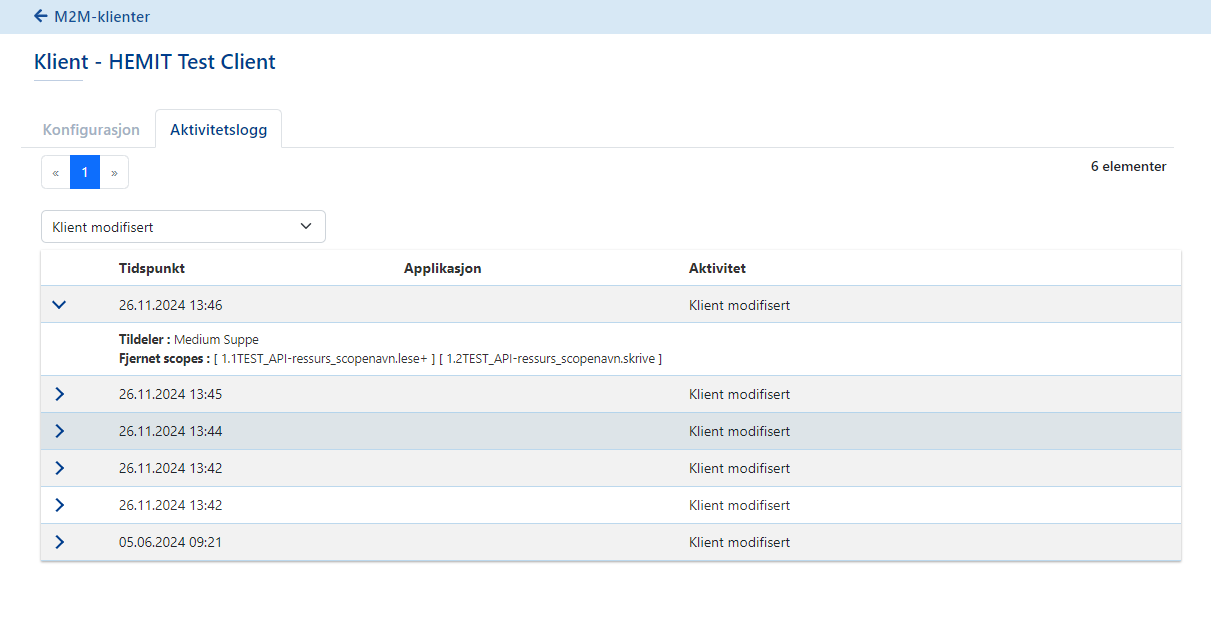
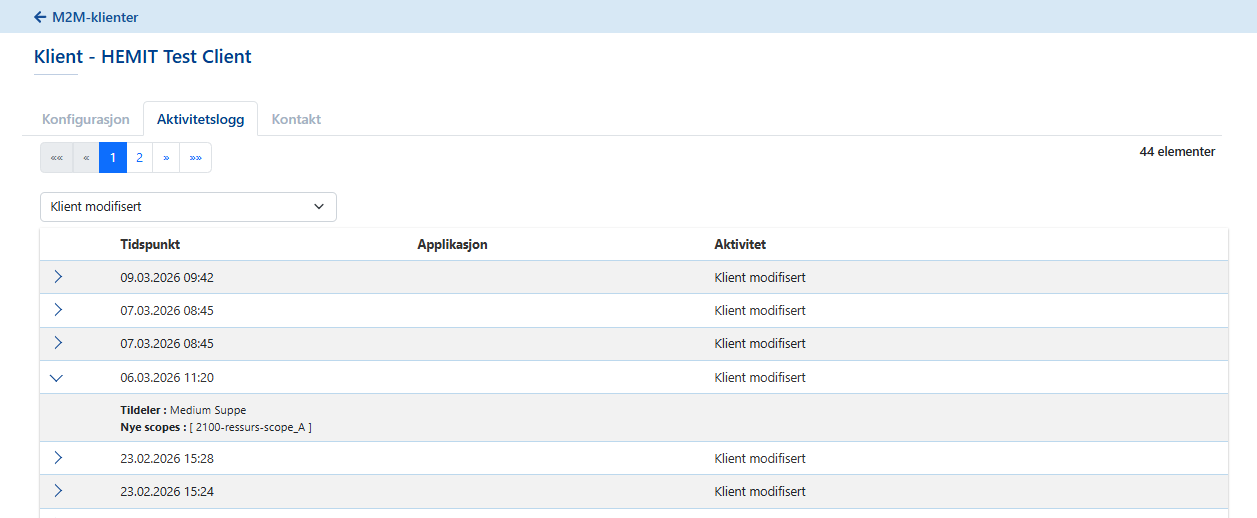
Oppdatert dokumentasjon M2M-klienter.

diff --git a/Brukerdokumentasjon-m2m.md b/Brukerdokumentasjon-m2m.md
@@ -36,29 +36,38 @@ Det er bare Falk Administrator som kan sette opp og aktivere Maskin til Maskin-k
 ## <a name='M2M-klienter'></a>M2M-klienter
 Falk Admininistrator har et menyvalg i fanen Administrere for å se og administrere maskin til maskin-klienter: M2M-klienter. 
 
-Når du velger M2M-klienter vil du få en oversikt som viser M2M-klientene i Falk. 
-Hver M2M-klient blir vist som en rad i oversikten, sammen med antallet API-scope og hvor mange rettigheter M2M-klienten har. I tillegg kan du se om en M2M-klient er aktiv.
+Når du velger M2M-klienter vil du få opp siden som viser oversikten over M2M-klientene i Falk. Du kan bruke søkefeltet på siden for å søke etter en M2M-klient.  
+Hver M2M-klient blir vist som en rad i oversikten. For hver klient vises antallet API-scope og hvor mange applikasjoner som M2M-klienten har tilgang til. I tillegg kan du se om en M2M-klient er aktiv.
 
 ![Oversikten M2M-klienter i Falk.](img\Falk2.5\m2m-klienter.png)
 
-Ved å velge en M2M-klient i oversikten åpner du den og får opp mer informasjon om får tilgang til å endre på den. Fanen Konfigurasjon er i fokus når du åpner klienten og viser 
-- navnet til klienten og identifikatoren sammen med en avkryssingsboks som viser om M2M-klienten er aktiv eller inaktiv, 
-- listen API-ressurser som viser de API-ressursene som finnes og hvilke scopes som er satt opp og aktive eller inaktive for hver API-ressurs, 
-- liste med navet til de applikasjonene som er satt opp med denne klienten. Du har mulighet til å klikke på et navn for å navigere til den applikasjonen herfra.  
+Velg en M2M-klient i oversikten for å åpne den og få opp mer informasjon om M2M-klienten. Fanen Konfigurasjon er i fokus når du åpner klienten og viser 
+- navnet til klienten, identifikatoren og avkryssingsboksen som viser om M2M-klienten er aktiv eller inaktiv, 
+- listen API-ressurser som viser de API-ressursene som finnes, hvilke scopes som er satt opp og som er aktive eller inaktive for hver API-ressurs, 
+- listen Applikasjoner som viser navnet til de applikasjonene som er satt opp med denne klienten. Du kan klikke på navnet til applikasjonen for å navigere til direkte til applikasjonen herfra.  
 
 ![Fanen Konfigurasjon som viser API-ressursene i en liste og knappen for å endre.](img\Falk2.5\m2m-klient-Konfigurasjon.png)
  
-I fanen Konfigurasjon for M2M-klienten har du også knappen for å endre og oppdatere M2M-klienten. Velg knappen Endre for å åpne M2M-klienten og gjøre endringer. 
+I fanen Konfigurasjon for M2M-klienten har du også knappen for å endre på M2M-klienten. Når du velger knappen Endre blir M2M-klienten åpnet og knappene for å avbryte endringen, slette klienten og lagre endringer blir vist. 
 
-![M2M-klient i redigeringsmodus.](img\Falk2.5\m2mklient-KonfigurasjonEndre.png)
+![M2M-klient i redigeringsmodus.](img\Falk2.5\m2m-klient-KonfigurasjonEndre.png)
 
-Når du velger å endre på en M2M-klient har du tilgang til å bestemme scopes som skal brukes for hver API-ressurs: Huk av avkryssingsboksen for det eller de scopes som skal være tilgjengelige og aktive, og fjern avkryssingen i avkryssingsboksen for å gjøre det utilgjengelig. 
+Når du velger å endre på en M2M-klient har du tilgang til å velge scopes som skal brukes for hver API-ressurs: Huk av avkryssingsboksen for det eller de scopes som skal være tilgjengelige og aktive, og fjern avkryssingen i avkryssingsboksen for å gjøre det utilgjengelig. 
 
-Når du er ferdig med å endre og har bestemt scopes for hver API-ressurs, klikk Lagre under listen. 
+Når du er ferdig med å endre konfigurasjonen velger du Lagre-knappen for å få lagret endringene. Endringer som er utført for M2M-klienten blir loggført i aktivitetsloggen. Du kan se disse å velge fanen Aktivitetslogg. 
 
-Endringer som er utført for M2M-klienten blir loggført i aktivitetsloggen. Du kan se disse å velge fanen Aktivitetslogg. 
+Hvis du velger fanen Kontakt får du opp en oversikt over kontaktpersoner for M2M-klienten sammen med funksjonen for å legge til ny kontaktperson. For hver kontaktperson må du oppgi navn og epostadresse, i tillegg kan du registrere organisasjon og telefonnummer.  
 
-![Aktivitetslogg for en M2M-klient.](img\Falk2.5\m2mklient-Aktivitetslogg.png)
+![M2M-klient kontaktperson.](\img\Falk2.5\m2m-klient-Kontakt.png)
+
+![Legg til ny kontaktperson.](\img\Falk2.5\m2m-klient-Kontakt-LeggTilNy.png)
+
+I fanen Konfigurasjon har du tilgang til å slette M2M-klienten ved å velge Slett-knappen. M2M-klienten blir slettemerket i databasen. Applikasjoner som har gitt tilgang til en slettet M2M-klient viser fortsatt M2M-klienten og identifikatoren, i listen M2M-klienter i fanen Tilganger, men uten noen aktive tilganger. 
+
+En M2M-klient som har blitt slettet kan tilbakeføres i databasen og ved tilbakeføringen vil aktivitetloggen vise informasjon om slettingen av M2M-klienten.
+
+
+![Aktivitetslogg for en M2M-klient.](img\Falk2.5\m2m-klient-Aktivitetslogg.png)
 Når du velger fanen Aktivitetslogg i M2M-klienten får du en oversikt over aktiviteter som er utført, ordnet etter dato. Oversikten har en nedtrekksmeny der du kan velge å se bestemte aktiviteter, for eksempel når klienten er endret på (Klient modifisert), rettigheter som har blitt slettet og opprettet ny klient. 
 
 Du kan se mer informasjon om hvert innslag i Aktivitetslogg ved å klikke på det. 
